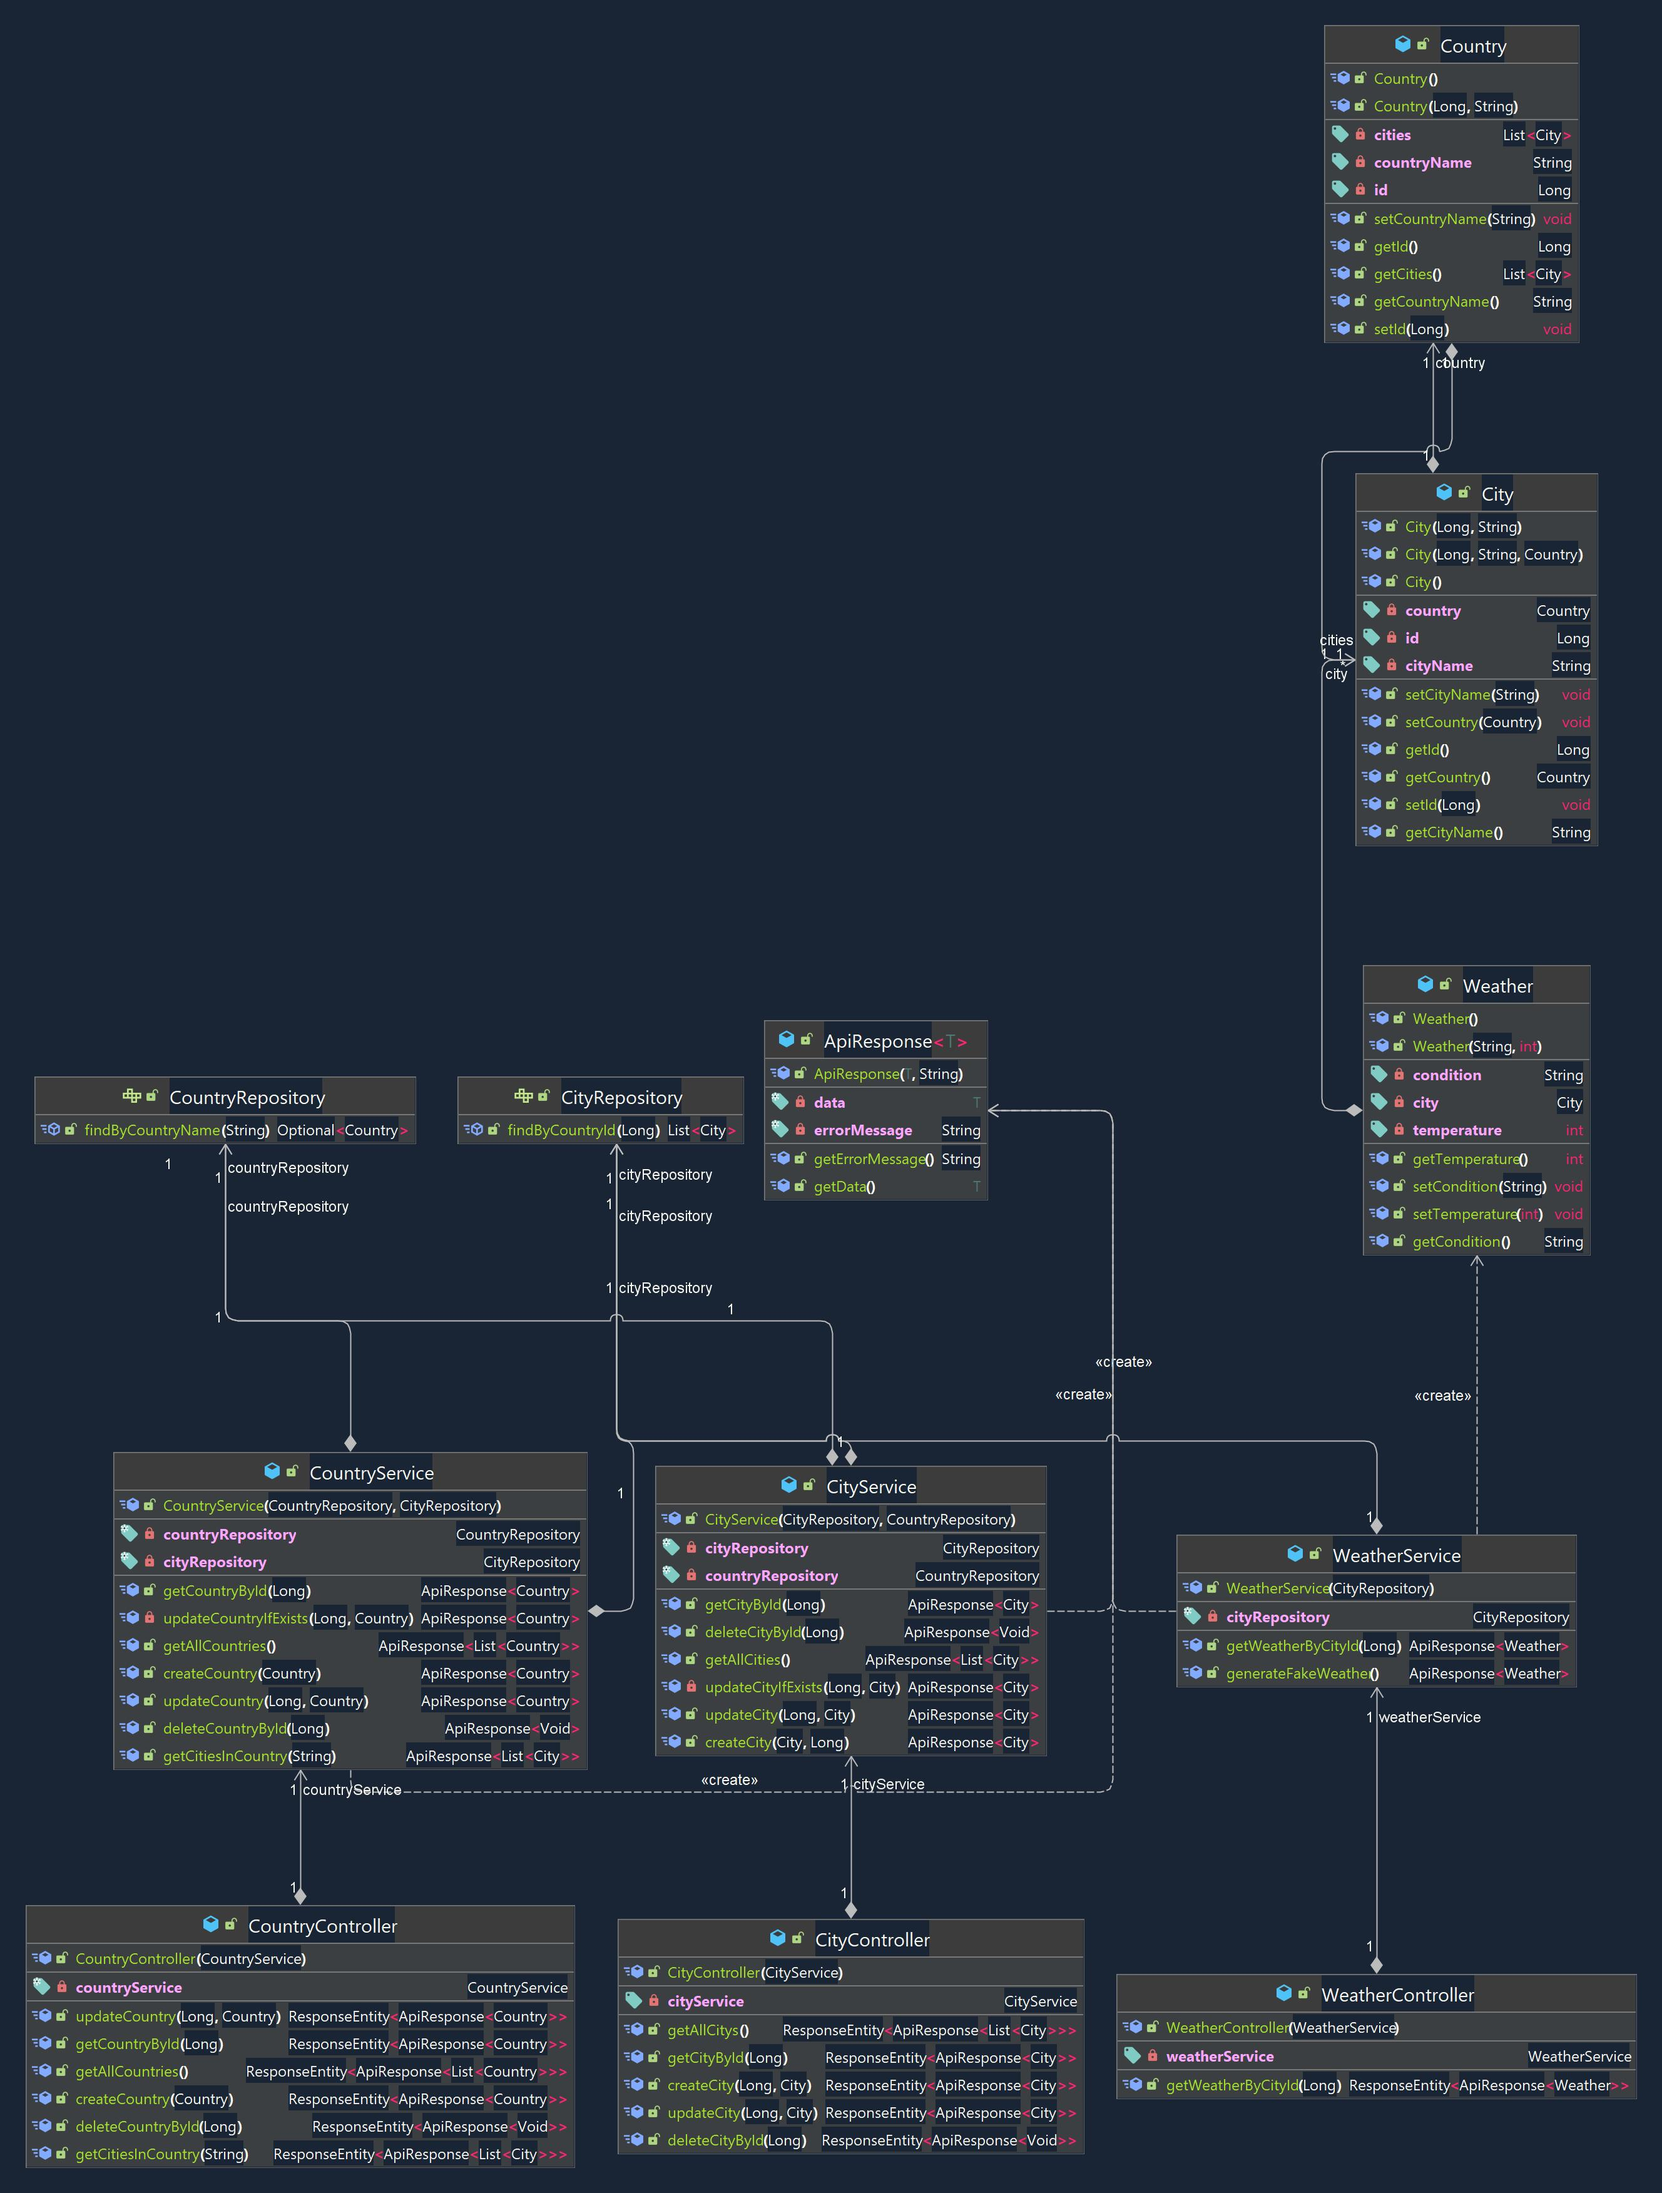
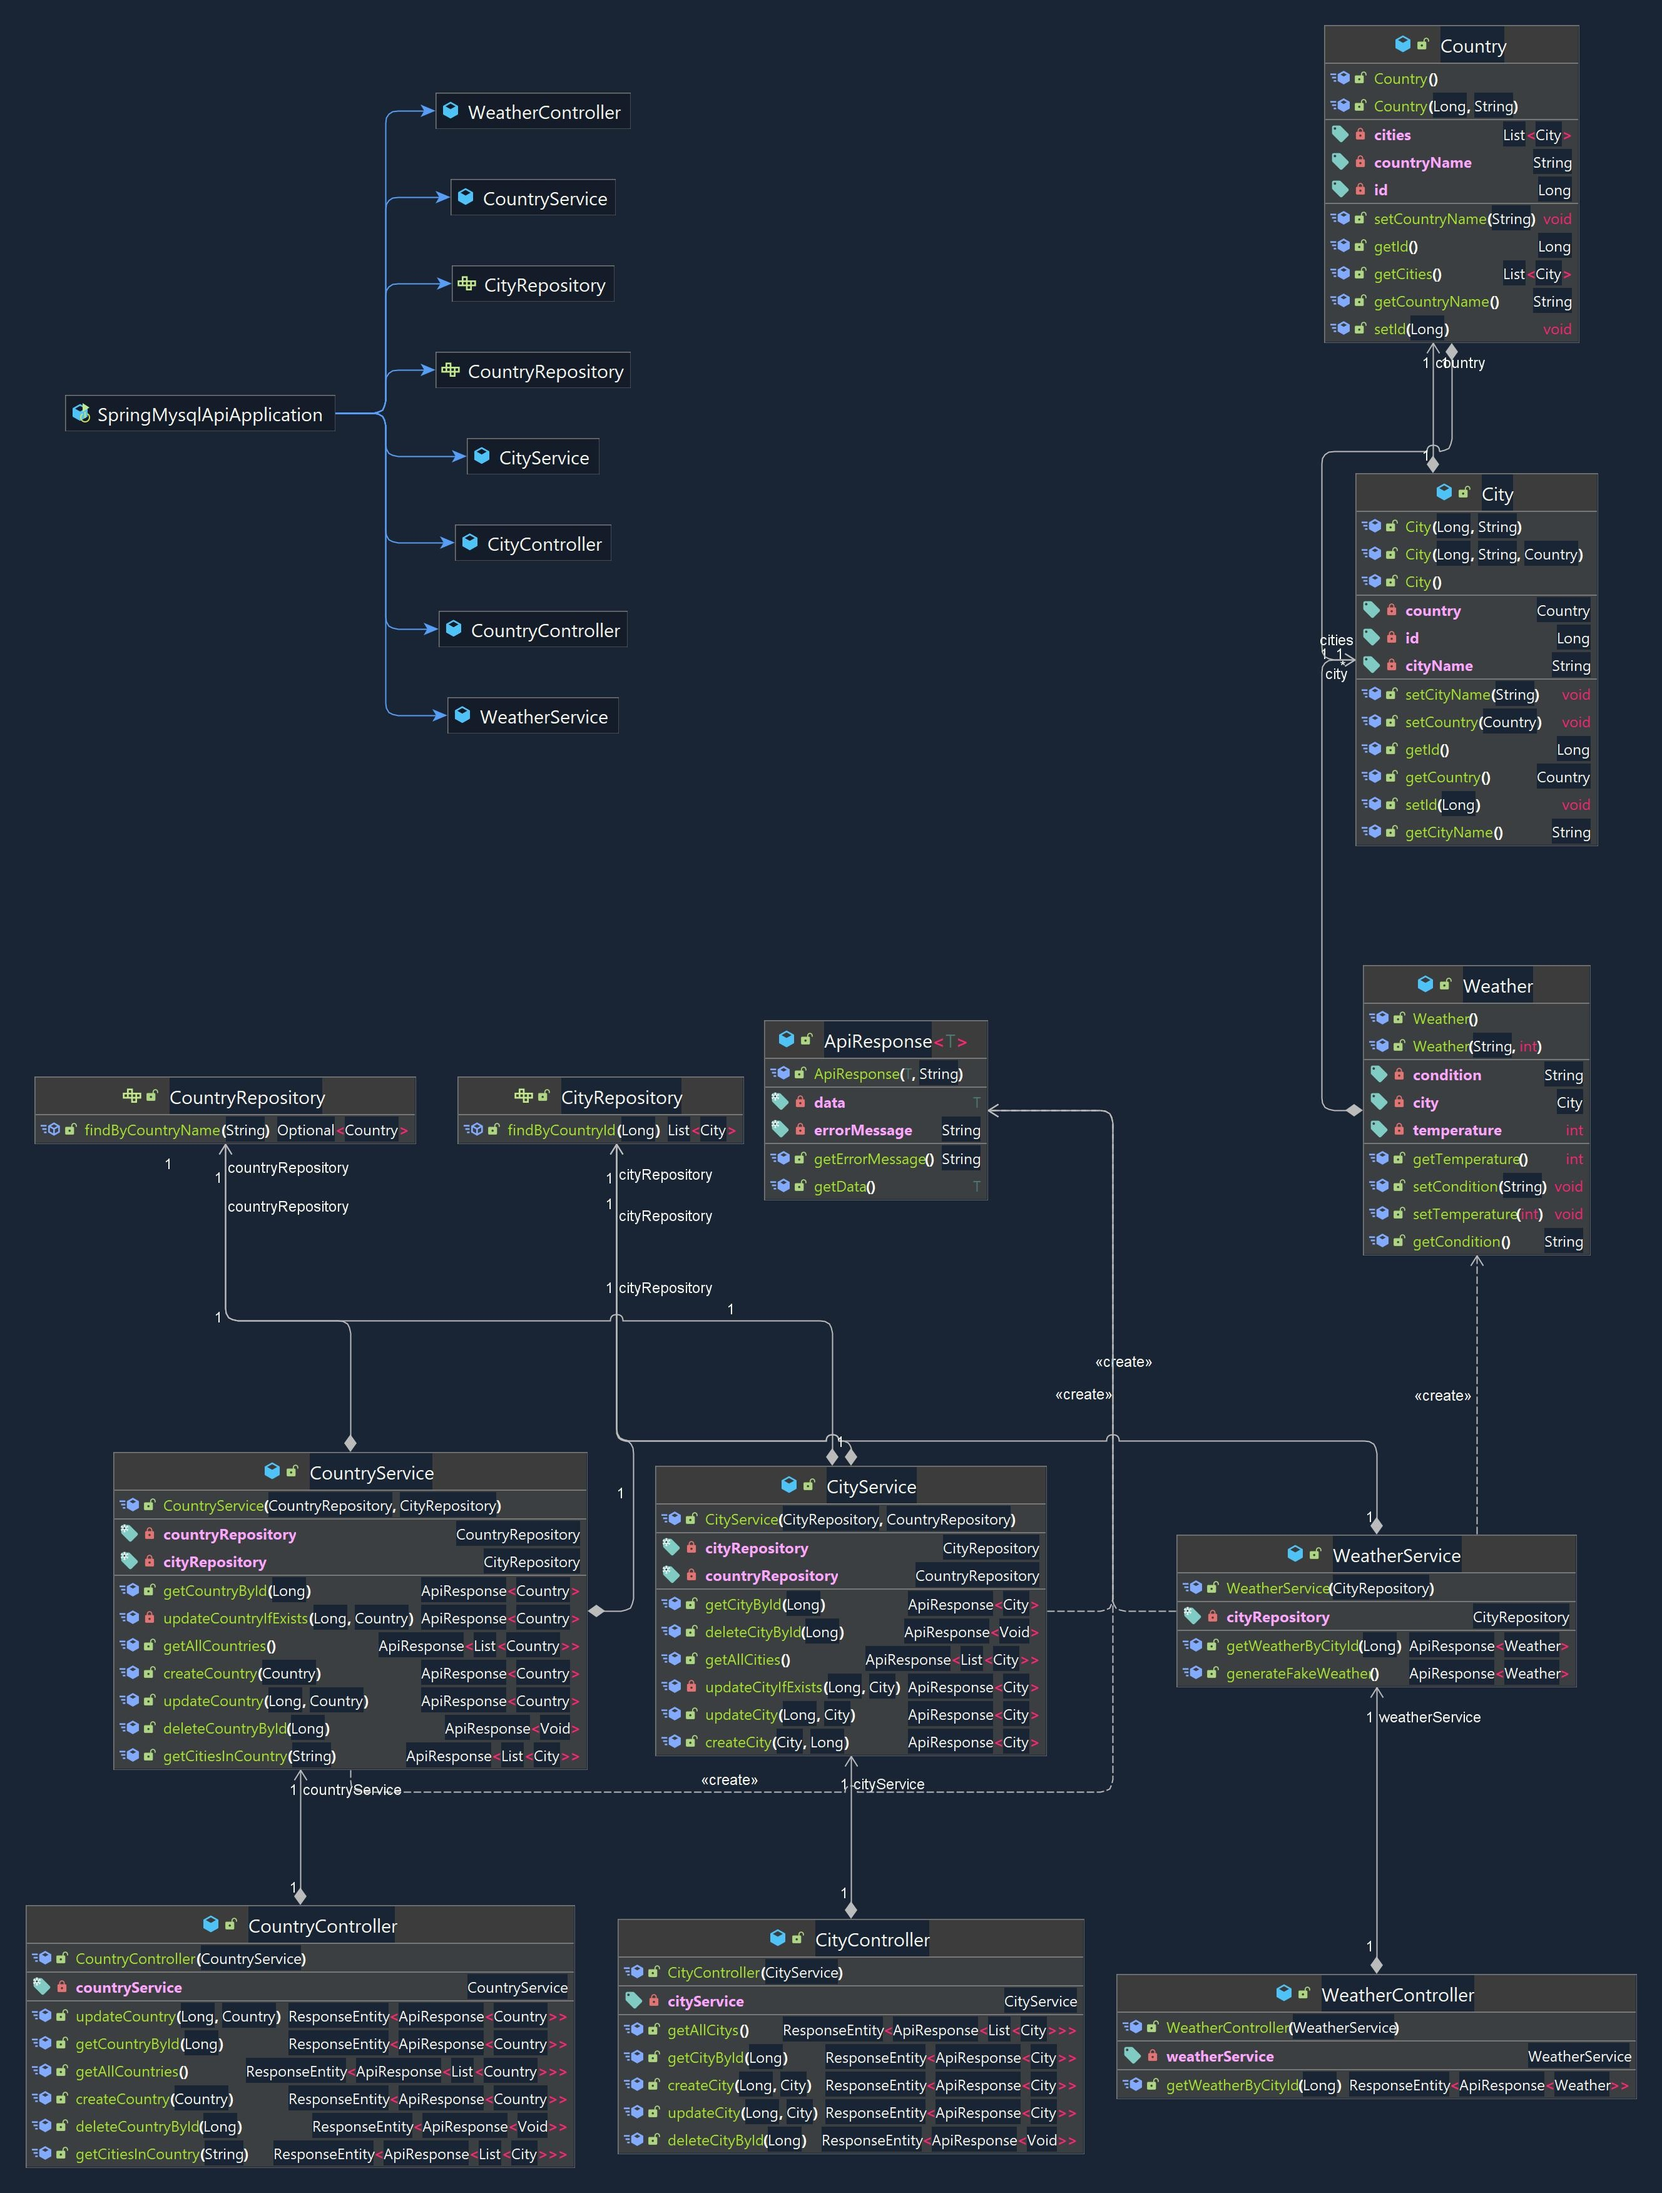
UML Update
uppdaterad UML, snyggat till koden lite

diff --git a/src/main/java/com/example/spring_mysql_api/controllers/CountryController.java b/src/main/java/com/example/spring_mysql_api/controllers/CountryController.java
@@ -26,13 +26,13 @@ public class CountryController {
     public ResponseEntity<ApiResponse<Country>> createCountry(@RequestBody Country country) {
 
         ApiResponse<Country> response = countryService.createCountry(country);
-
         if (response.getData() != null) {
             return new ResponseEntity<>(response, HttpStatus.CREATED);
         } else {
             return new ResponseEntity<>(response, HttpStatus.BAD_REQUEST);
         }
     }
+
 
     @GetMapping("/countries/{id}")
     public ResponseEntity<ApiResponse<Country>> getCountryById(@PathVariable Long id) {
@@ -60,6 +60,7 @@ public class CountryController {
 
     @PutMapping("/countries/{id}")
     public ResponseEntity<ApiResponse<Country>> updateCountry(@PathVariable Long id, @RequestBody Country country) {
+
         ApiResponse<Country> response = countryService.updateCountry(id, country);
 
         if (response.getData() != null) {
@@ -67,7 +68,6 @@ public class CountryController {
         } else {
             return new ResponseEntity<>(response, HttpStatus.NOT_FOUND);
         }
-
     }
 
     @DeleteMapping("/countries/{id}")
@@ -76,14 +76,10 @@ public class CountryController {
         HttpStatus httpStatus;
 
         if (response.getErrorMessage() == null) {
-
             httpStatus = HttpStatus.OK;
-
         } else {
-
             httpStatus = HttpStatus.NOT_FOUND;
         }
-
         return new ResponseEntity<>(response, httpStatus);
     }
 

diff --git a/src/main/java/com/example/spring_mysql_api/services/WeatherService.java b/src/main/java/com/example/spring_mysql_api/services/WeatherService.java
@@ -37,7 +37,6 @@ public class WeatherService {
     public ApiResponse<Weather> generateFakeWeather() {
 
         try {
-
             String[] conditions = {"Sunny", "Cloudy", "Rainy", "Snowy"};
             String randomCondition = conditions[new Random().nextInt(conditions.length)];
 

diff --git a/src/main/java/com/example/spring_mysql_api/controllers/CityController.java b/src/main/java/com/example/spring_mysql_api/controllers/CityController.java
@@ -12,7 +12,7 @@ import java.util.List;
 @RequestMapping("/api")
 public class CityController {
 
-    private CityService cityService;
+    private final CityService cityService;
 
 
     @Autowired
